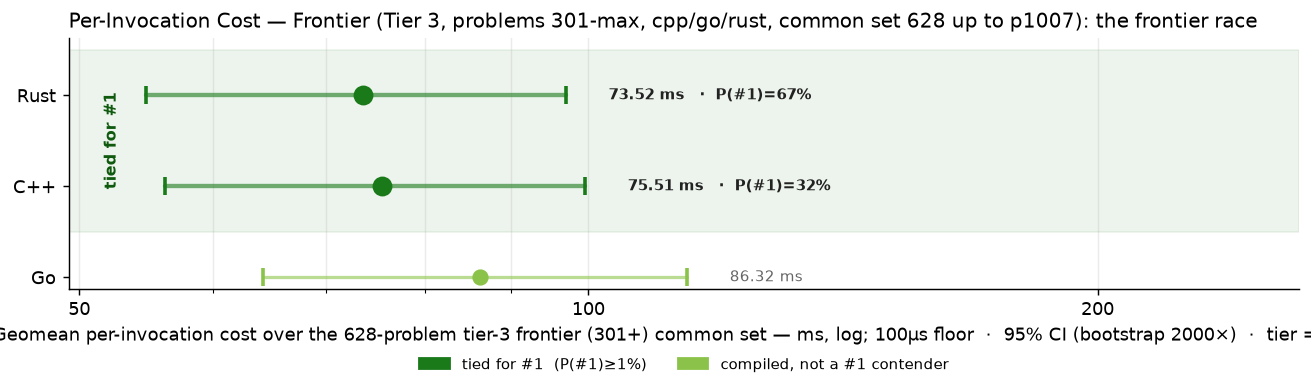
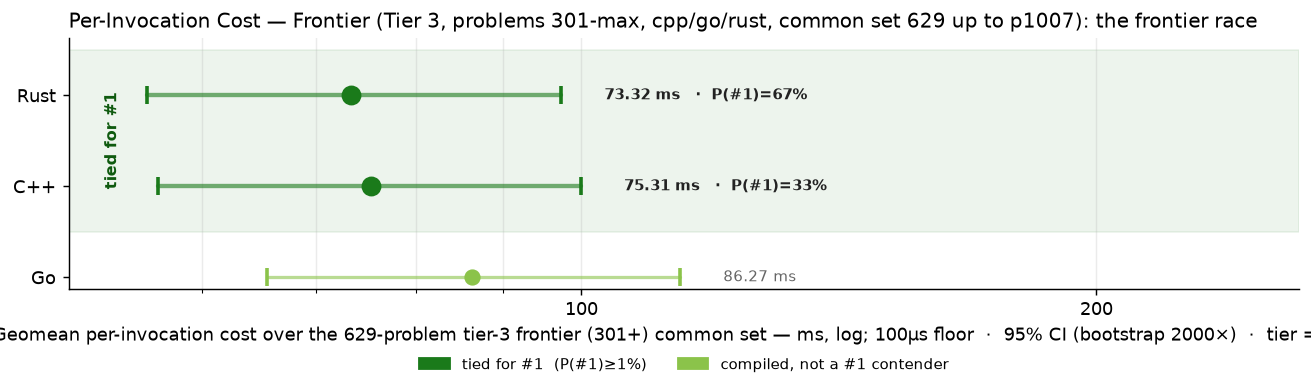
cpp p0696

diff --git a/RESULTS.md b/RESULTS.md
@@ -1,6 +1,6 @@
 # Project Euler — Cross-Language Benchmarks
 
-> **Scope: 4521 in-scope cells across 1007 problems × tiered languages — 4365 measured (96.5% coverage).**
+> **Scope: 4521 in-scope cells across 1007 problems × tiered languages — 4366 measured (96.6% coverage).**
 > The cross-language ranking below is computed over the **200-problem common set** (problems in 1-200 where every language has a passing measurement) — the apples-to-apples Foundation comparison surface.  Per-tier rankings and coverage detail appear further below.
 > Growing carefully — each new problem and language is audited for state-leak
 > safety, verified for answer correctness, and added only when it cleanly fits the
@@ -70,15 +70,15 @@ Same scatter as the Foundation chart, restricted to the tier-2 active languages 
 
 The frontier verification trio — C++, Go, Rust — on problems above 300. 3-way cross-language agreement is the verification protocol (strictly stronger than 2-way; see JOURNEY.md "Tier Reframing" episode for the p254 lesson that motivated it). Python and Zig are explicitly out of this tier — python's wall cost makes it impractical at level 5+, and zig's role caps at Tier 2.
 
-### Per-Invocation Cost (Common Set, 628 of ≤707 problems in scope)
+### Per-Invocation Cost (Common Set, 629 of ≤707 problems in scope)
 
 ![Per-Invocation Cost — Tier 3](charts/per_iter_total_tier3.png)
 
-| Rank | Language | Geomean (628-problem common set) | Total (sum) | Lines of code | vs Fastest |
+| Rank | Language | Geomean (629-problem common set) | Total (sum) | Lines of code | vs Fastest |
 |------|----------|--------------------:|------------:|--------------:|-----------:|
-| 1 | **Rust** | 73.52 ms | 1708.04 s | 122,652 | 1.00× |
-| 2 | **C++** | 75.51 ms | 1831.44 s | 90,665 | 1.03× |
-| 3 | **Go** | 86.32 ms | 2104.01 s | 114,766 | 1.17× |
+| 1 | **Rust** | 73.32 ms | 1708.05 s | 123,233 | 1.00× |
+| 2 | **C++** | 75.31 ms | 1831.45 s | 91,021 | 1.03× |
+| 3 | **Go** | 86.27 ms | 2104.07 s | 115,142 | 1.18× |
 
 ### Speed vs Code Size
 
@@ -264,7 +264,7 @@ table never silently mixes versions (METHODOLOGY.md §4).  Current state of the
 |----------|-----------|------:|---------------|
 | **ARM64** | `Apple clang version 21.0.0 (clang-2100.1.1.101)` | 200 | 2026-07-30 |
 | **C** | `Apple clang version 21.0.0 (clang-2100.1.1.101)` | 200 | 2026-07-30 |
-| **C++** | `Apple clang version 21.0.0 (clang-2100.1.1.101)` | 932 | 2026-09-04 |
+| **C++** | `Apple clang version 21.0.0 (clang-2100.1.1.101)` | 933 | 2026-09-04 |
 | **C#** | `10.0.101` | 200 | 2026-07-30 |
 | **Go** | `go version go1.26.5 darwin/arm64` | 931 | 2026-09-04 |
 | **Java** | `openjdk version "21.0.2" 2024-01-16 LTS` | 200 | 2026-07-30 |

diff --git a/per_problem/per_problem_0601-0700.md b/per_problem/per_problem_0601-0700.md
@@ -103,7 +103,7 @@ in tier-1 display order (native → managed → interpreted).
 | **p0693** | — | — | — |
 | **p0694** | 18.00 ms | 18.03 ms | 19.08 ms |
 | **p0695** | 1.09 ms | 79.33 ms | 111.21 ms |
-| **p0696** | — | 12.63 ms | 63.22 ms |
+| **p0696** | 14.33 ms | 12.63 ms | 63.22 ms |
 | **p0697** | 6.5 µs | 5.0 µs | 5.2 µs |
 | **p0698** | 252.8 µs | 146.3 µs | 165.1 µs |
 | **p0699** | 2.44 s | 7.68 s | 1.40 s |
